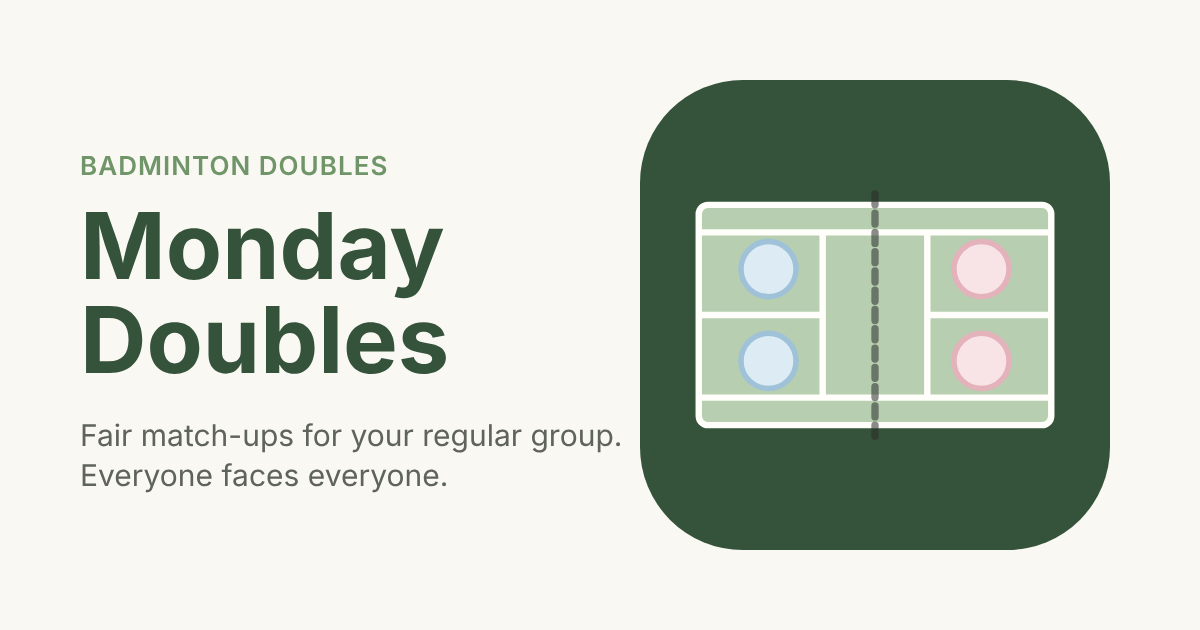
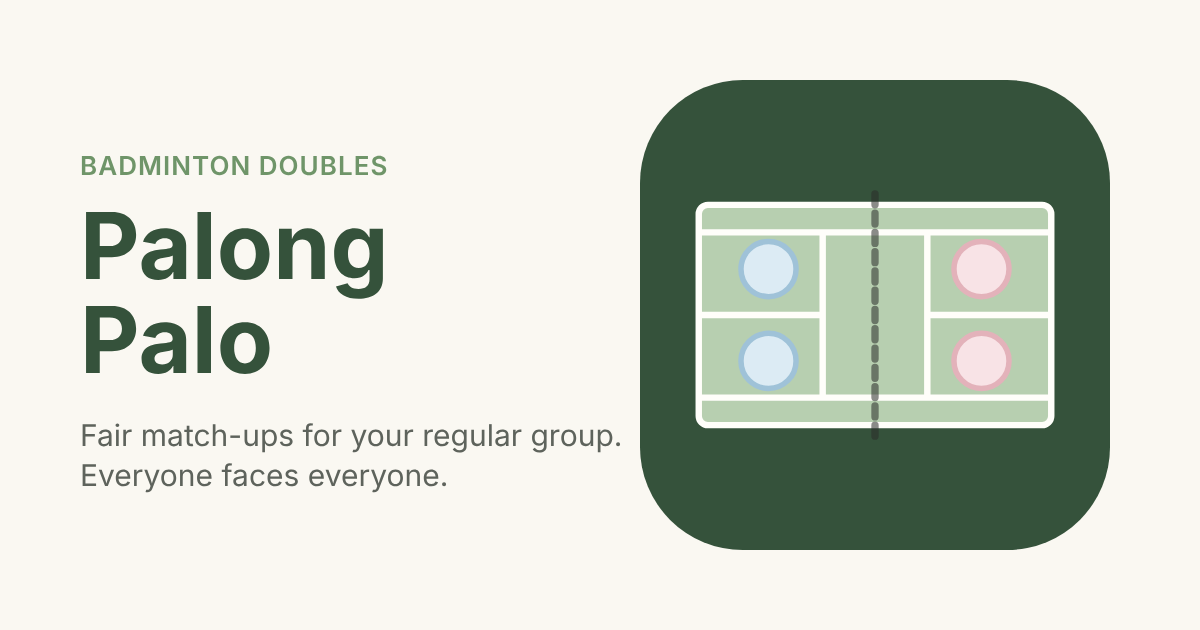
feat: rename project from Monday Doubles to Palong Palo and update related URLs

Changed region(s): [[0.0617, 0.3317, 0.37, 0.6032]]

diff --git a/index.html b/index.html
@@ -4,19 +4,19 @@
   <meta charset="utf-8">
   <meta name="viewport" content="width=device-width, initial-scale=1, viewport-fit=cover">
 
-  <title>Monday Doubles | Badminton Doubles Match-Up Generator</title>
+  <title>Palong Palo | Badminton Doubles Match-Up Generator</title>
   <meta name="description" content="Free badminton doubles match-up generator. Pick who is playing, build a fair schedule for 1 or 2 courts, rest or swap players on the fly, and track winners. Works on your phone.">
   <meta name="keywords" content="badminton, doubles, match-up generator, badminton scheduler, round robin, court rotation, matchmaking">
   <meta name="author" content="Adrian Adona">
   <meta name="robots" content="index, follow, max-image-preview:large">
-  <link rel="canonical" href="https://monday-doubles.vercel.app/">
+  <link rel="canonical" href="https://palong-palo.vercel.app/">
 
   <!-- Look and feel on phones -->
   <meta name="theme-color" content="#FAF8F2">
   <meta name="color-scheme" content="light">
   <meta name="mobile-web-app-capable" content="yes">
   <meta name="apple-mobile-web-app-capable" content="yes">
-  <meta name="apple-mobile-web-app-title" content="Doubles">
+  <meta name="apple-mobile-web-app-title" content="Palong Palo">
   <meta name="apple-mobile-web-app-status-bar-style" content="default">
   <meta name="format-detection" content="telephone=no">
 
@@ -28,26 +28,26 @@
 
   <!-- Social sharing -->
   <meta property="og:type" content="website">
-  <meta property="og:site_name" content="Monday Doubles">
-  <meta property="og:title" content="Monday Doubles | Badminton Doubles Match-Up Generator">
+  <meta property="og:site_name" content="Palong Palo">
+  <meta property="og:title" content="Palong Palo | Badminton Doubles Match-Up Generator">
   <meta property="og:description" content="Fair doubles schedules for your regular badminton group. Everyone faces everyone, with easy rest and swap edits.">
-  <meta property="og:url" content="https://monday-doubles.vercel.app/">
-  <meta property="og:image" content="https://monday-doubles.vercel.app/icons/og-image.png">
+  <meta property="og:url" content="https://palong-palo.vercel.app/">
+  <meta property="og:image" content="https://palong-palo.vercel.app/icons/og-image.png">
   <meta property="og:image:width" content="1200">
   <meta property="og:image:height" content="630">
-  <meta property="og:image:alt" content="Monday Doubles app icon: a top-down badminton court with four players">
+  <meta property="og:image:alt" content="Palong Palo app icon: a top-down badminton court with four players">
   <meta name="twitter:card" content="summary_large_image">
-  <meta name="twitter:title" content="Monday Doubles | Badminton Doubles Match-Up Generator">
+  <meta name="twitter:title" content="Palong Palo | Badminton Doubles Match-Up Generator">
   <meta name="twitter:description" content="Fair doubles schedules for your regular badminton group.">
-  <meta name="twitter:image" content="https://monday-doubles.vercel.app/icons/og-image.png">
+  <meta name="twitter:image" content="https://palong-palo.vercel.app/icons/og-image.png">
 
   <!-- Structured data -->
   <script type="application/ld+json">
   {
     "@context": "https://schema.org",
     "@type": "WebApplication",
-    "name": "Monday Doubles",
-    "url": "https://monday-doubles.vercel.app/",
+    "name": "Palong Palo",
+    "url": "https://palong-palo.vercel.app/",
     "description": "Badminton doubles match-up generator with fair opponent rotation, rest and swap edits, and winner tracking.",
     "applicationCategory": "SportsApplication",
     "operatingSystem": "Any",
@@ -67,7 +67,7 @@
   <!-- The app replaces this content as soon as the scripts run. Crawlers and no-JS visitors see it. -->
   <div id="app">
     <main style="padding:24px 16px;max-width:520px;margin:0 auto">
-      <h1>Monday Doubles</h1>
+      <h1>Palong Palo</h1>
       <p>A badminton doubles match-up generator. Pick who is playing, choose 1 or 2 courts, and get a fair schedule where everyone faces everyone. Rest or swap players at any time and the remaining rounds rebuild automatically.</p>
       <noscript><p>This app needs JavaScript to run. Please enable it and reload.</p></noscript>
     </main>

diff --git a/js/app.js b/js/app.js
@@ -218,7 +218,7 @@ function setupHTML() {
     '<div class="shell">' +
     '<header class="top"><div class="brand">' +
     I.brand +
-    '<span>Doubles</span></div>' +
+    '<span>Palong Palo</span></div>' +
     '<div class="actions">' +
     (App.S ? '<button class="btn sm quiet" data-act="resume">Back to session</button>' : '') +
     '<button class="btn quiet icon" data-act="sound" aria-label="Sound ' +
@@ -480,7 +480,7 @@ function scheduleHTML() {
     '<div class="shell">' +
     '<header class="top"><div class="brand">' +
     I.brand +
-    '<span>Doubles</span></div><div class="actions">' +
+    '<span>Palong Palo</span></div><div class="actions">' +
     '<button class="btn quiet icon" data-act="full" aria-label="Full schedule" title="Full schedule">' +
     I.list +
     '</button>' +

diff --git a/scripts/set-site-url.js b/scripts/set-site-url.js
@@ -3,7 +3,7 @@
 const fs = require('fs');
 const path = require('path');
 
-const PLACEHOLDER = 'https://monday-doubles.vercel.app';
+const PLACEHOLDER = 'https://palong-palo.vercel.app';
 const target = (process.argv[2] || '').replace(/\/+$/, '');
 if (!/^https?:\/\/[^/\s]+$/.test(target)) {
   console.error('Pass your site URL, for example: npm run set-url https://my-doubles.vercel.app');

diff --git a/sw.js b/sw.js
@@ -1,6 +1,6 @@
 /* Service worker: network first, cache fallback. Bump VERSION to force a fresh cache. */
 const VERSION = 'v1';
-const CACHE = 'monday-doubles-' + VERSION;
+const CACHE = 'palong-palo-' + VERSION;
 const SHELL = [
   '/',
   '/css/style.css',

diff --git a/README.md b/README.md
@@ -1,4 +1,4 @@
-# Monday Doubles
+# Palong Palo
 
 A mobile-first web app that builds and manages badminton doubles match-ups for a regular group. Pick who is playing, generate a schedule, then edit it as the session goes. Later rounds rebuild automatically.
 
@@ -47,7 +47,7 @@ With 12 players on 2 courts for about 9 rounds, expect around 6 games each, near
 ## Project layout
 
 ```
-monday-doubles/
+palong-palo/
   index.html              Page shell, SEO tags, social cards, structured data
   manifest.webmanifest    Home-screen app settings
   sw.js                   Service worker (offline support)
